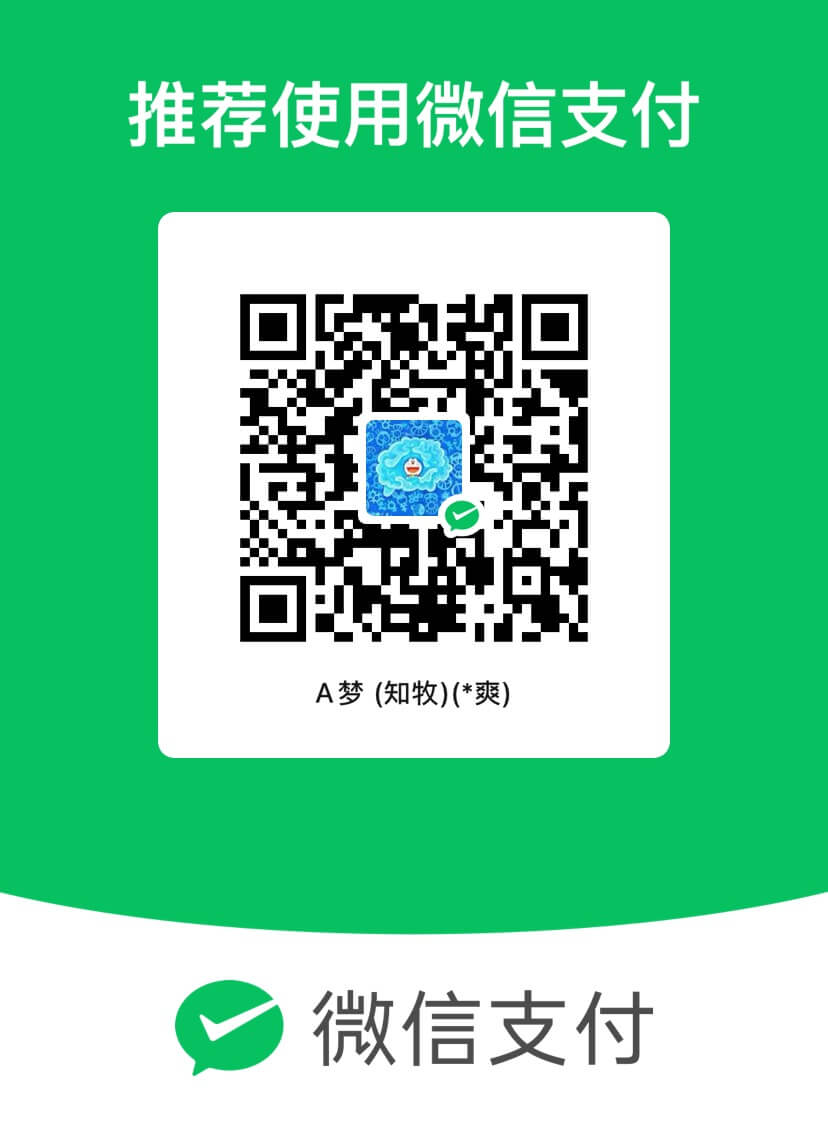
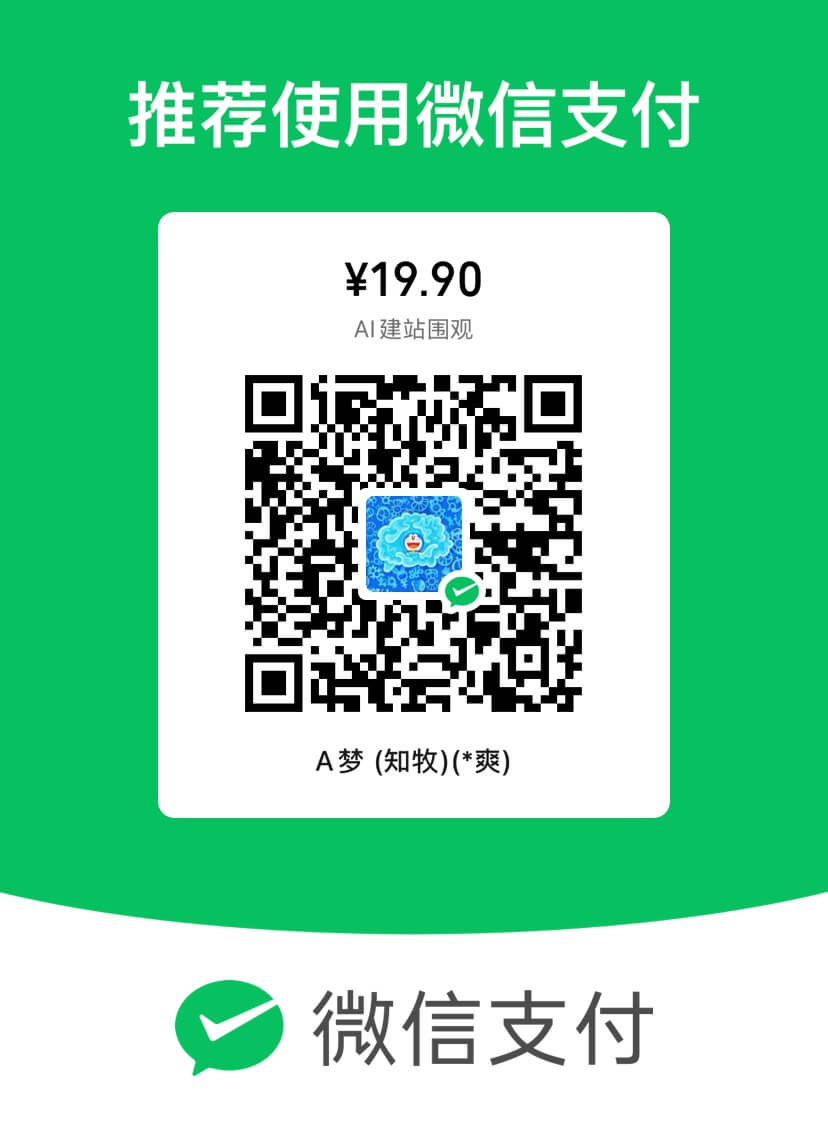
更新加入价格信息和支付二维码

Changed region(s): [[0.1812, 0.218, 0.8152, 0.7473]]

diff --git a/index.html b/index.html
@@ -1554,12 +1554,12 @@
           <div class="horizontal-timeline-item">
             <div class="horizontal-timeline-marker"></div>
             <div class="horizontal-timeline-date">3月24日前</div>
-            <div class="horizontal-timeline-content">加入围观群需随喜发红包，金额不限</div>
+            <div class="horizontal-timeline-content">加入围观群需随喜发红包</div>
           </div>
           <div class="horizontal-timeline-item">
             <div class="horizontal-timeline-marker"></div>
             <div class="horizontal-timeline-date">3月24日起</div>
-            <div class="horizontal-timeline-content">加入围观群需支付<span class="highlight-success">固定价格</span></div>
+            <div class="horizontal-timeline-content">加入围观群仅需<span class="highlight-success">19.9元</span>（不定期涨价）</div>
           </div>
           <div class="horizontal-timeline-item">
             <div class="horizontal-timeline-marker"></div>
@@ -1638,11 +1638,10 @@
       <div class="cta-section">
         <h1>🔥 立即加入围观群</h1>
         <p>添加我的微信，备注"AI建站"，即可加入围观群</p>
-        <p><span class="highlight-warning">3月24日前</span>：随喜发红包即可加入（金额不限）</p>
-        <p><span class="highlight-warning">3月24日起</span>：固定价格加入</p>
+        <p><span class="highlight-warning">即日起，一杯咖啡钱即可加入</span></p>
         
         <div style="margin-top: 20px;">
-          <button class="button" onclick="openModal()">查看加入详情</button>
+          <button class="button" onclick="openModal()">立即加入</button>
         </div>
       </div>
     </div>
@@ -1677,14 +1676,13 @@
               <div class="image-placeholder-text">扫码付款二维码</div>
             </div>
             <p class="qr-text">付款二维码</p>
-            <p class="qr-text">好友直接转账<span class="highlight-success">任意金额</span>即可</p>
+            <p class="qr-text">好友直接转账<span class="highlight-success">19.9</span>即可</p>
           </div>
         </div>
         
         <div style="margin-top: 24px;">
-          <p class="payment-note" ><span class="highlight-success">3月24日前</span>：随喜发红包即可加入（金额不限）</p>
-          <p class="payment-note" ><span class="highlight-success">3月24日起</span>：固定价格加入</p>
-          <p class="payment-note" style="margin-top: 10px;">支付成功后，请将付款截图发送给我，我会在 3月23日 周日将你拉入群</p>
+          <p class="payment-note" ><span class="highlight-success">即日起19.9元立刻加入围观群</span></p>
+          <p class="payment-note" style="margin-top: 10px;">支付成功后，请将付款截图发送给我，我会将你拉入群</p>
         </div>
         
         <button class="button" style="margin-top: 24px;" onclick="closeModal()">我知道了</button>
